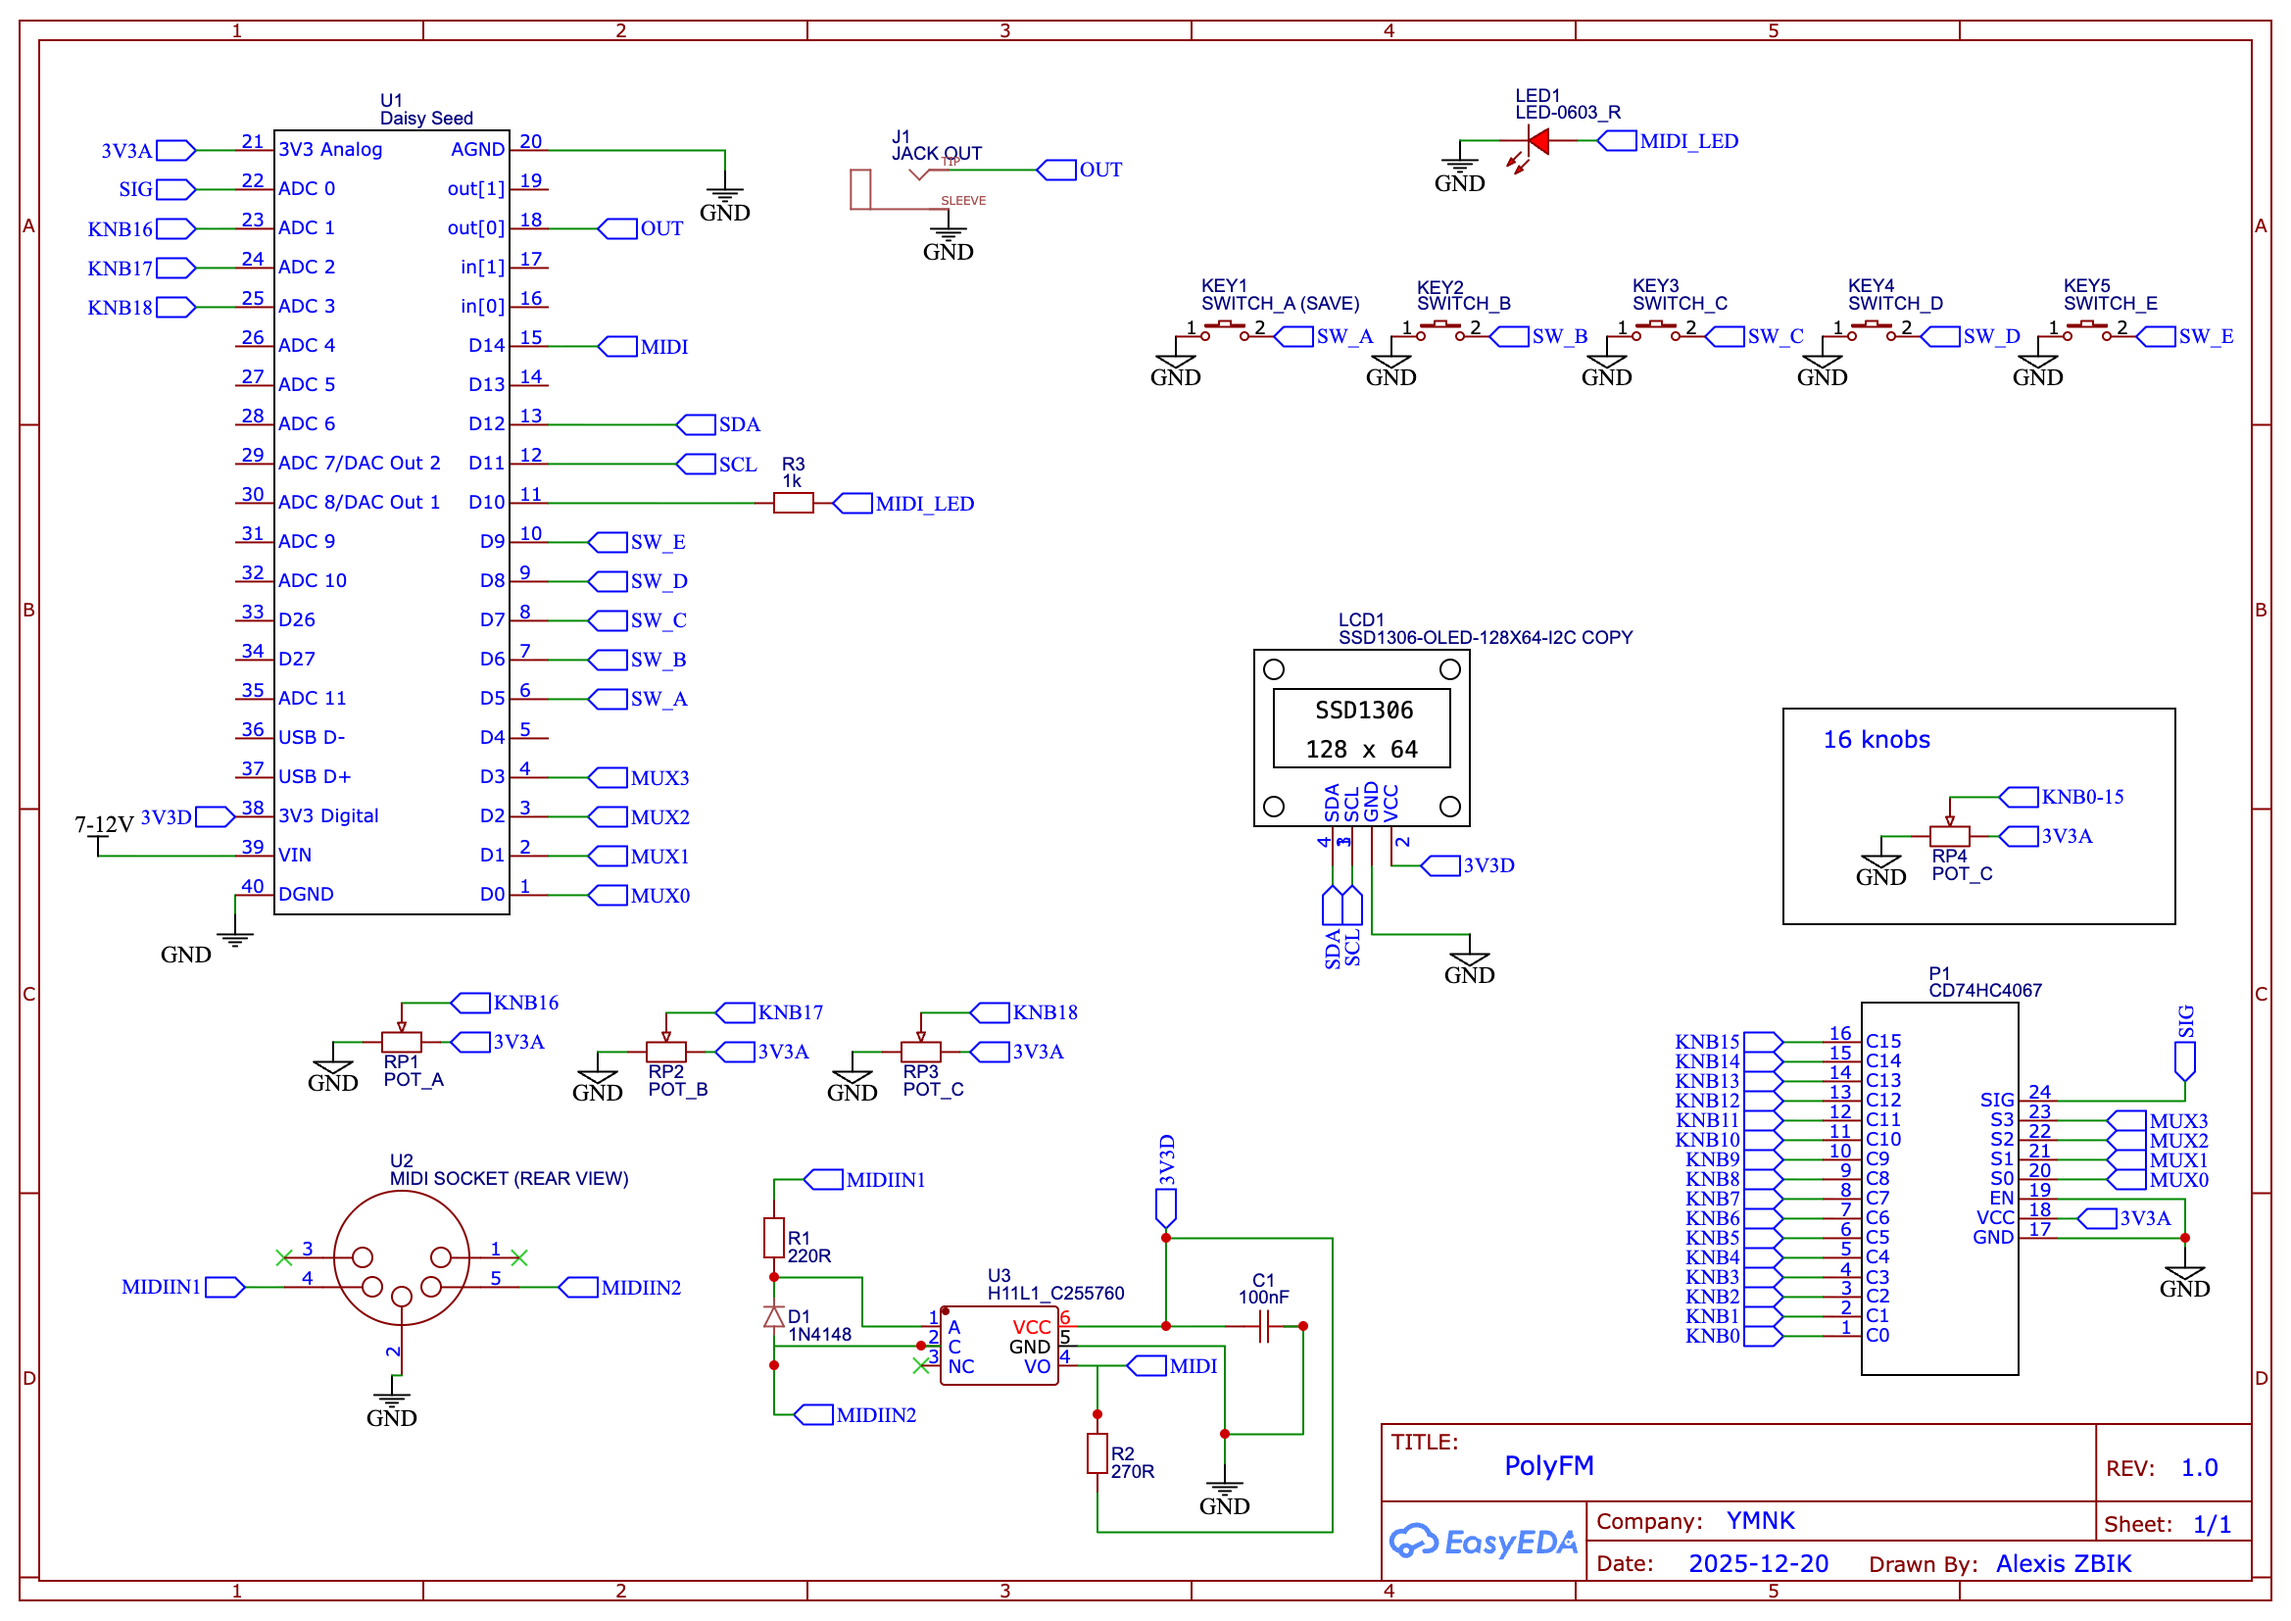
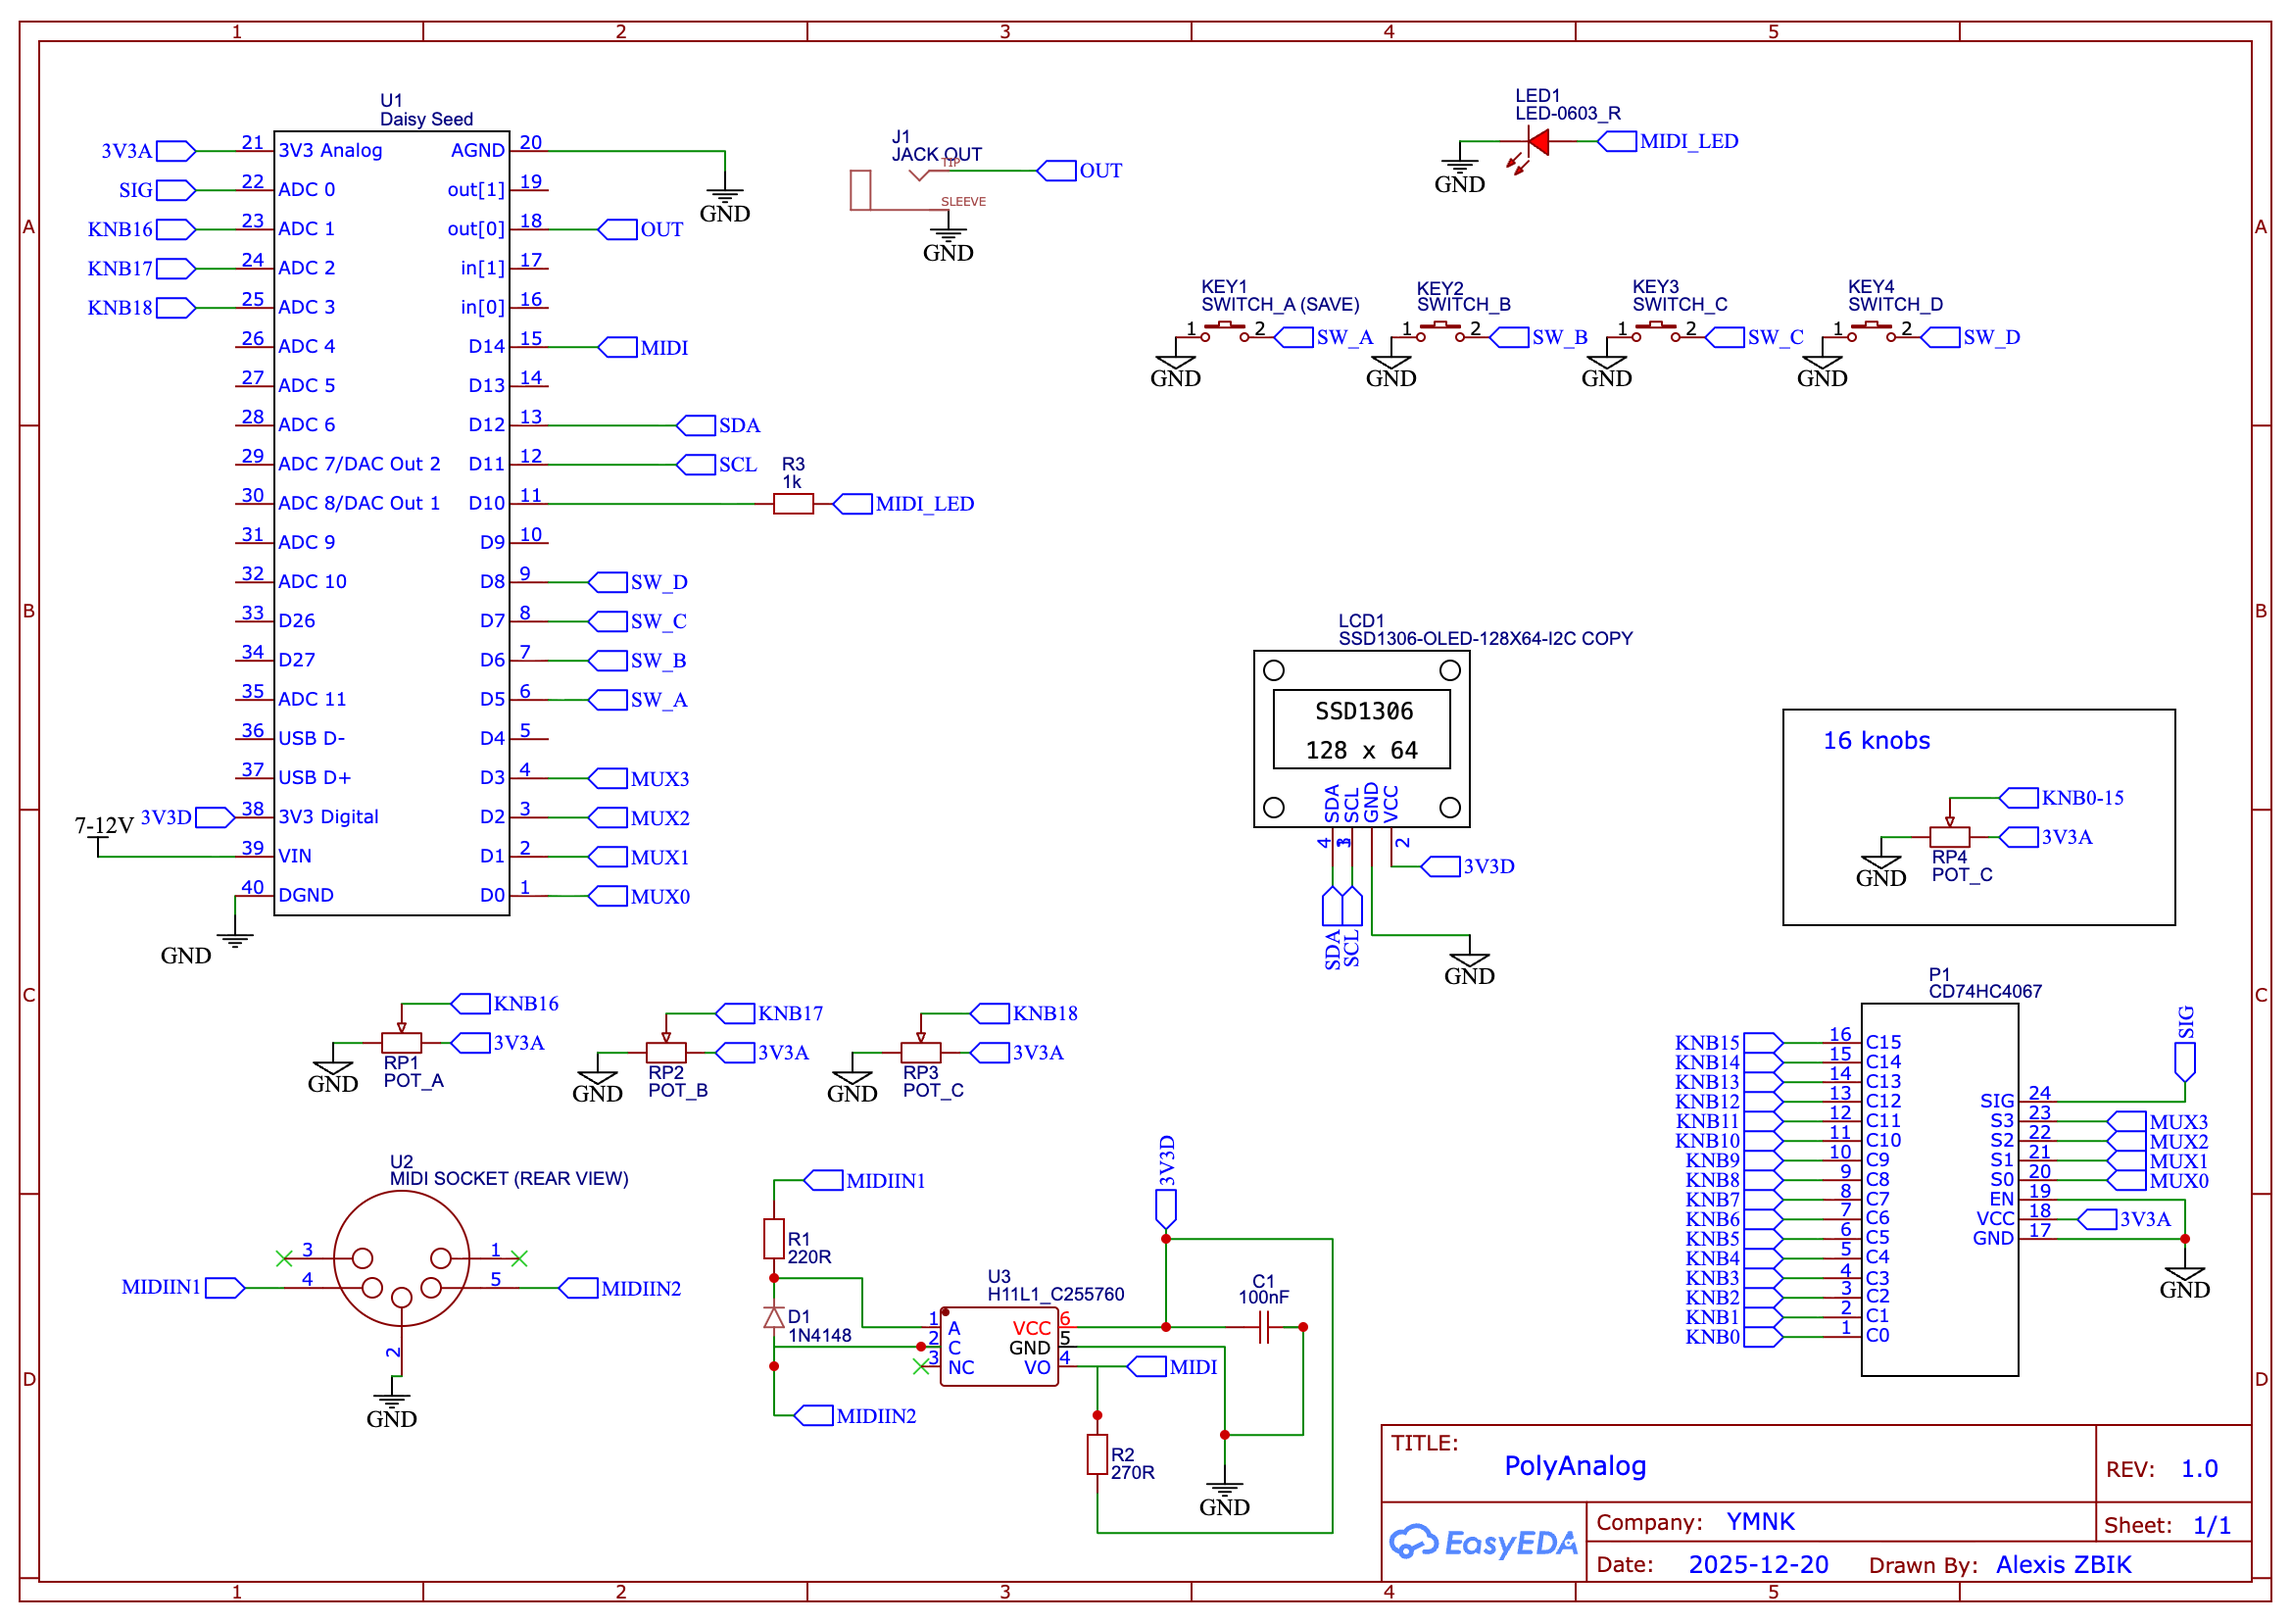
Update readme

diff --git a/README.md b/README.md
@@ -10,6 +10,14 @@
 
 - 4-voice polyphony  
 - MIDI input
+- mono output
+- 2 VCO with SuperSaw, Saw, Square with pulse width modulation
+- -2 -> +2 octaves per VCO (second vco can also have fifth tuning and fine tuning around 0)
+- ASR envelope
+- Low pass filter with envelope and resonance
+- High pass
+- Volume 
+- 2 sinus LFOs (right now first one is wired on pitch, second on filter cutoff)
 - 16 presets save & load  
 - OLED display (SSD1306 128×64)  
 - Hands-on control with potentiometers and push buttons  
@@ -18,7 +26,7 @@
 
 ## Schematic
 
-Soon !  
+![PolyAnalog schematic](schematic.png)
 
 ---
 
